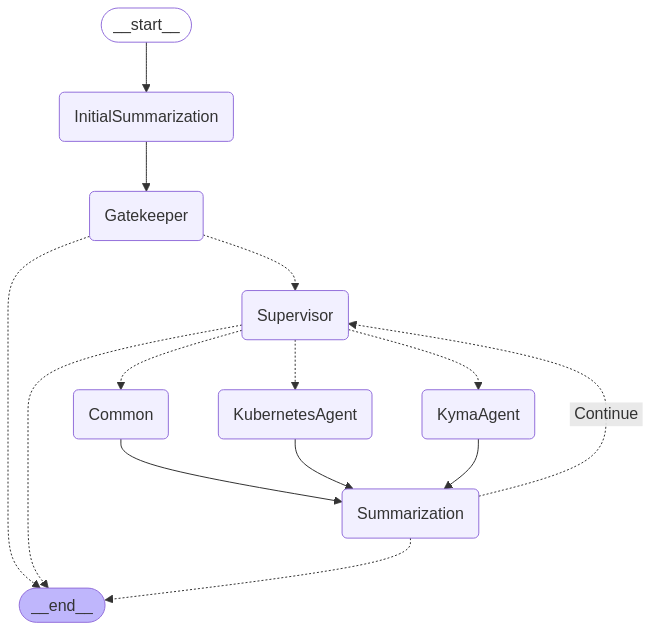
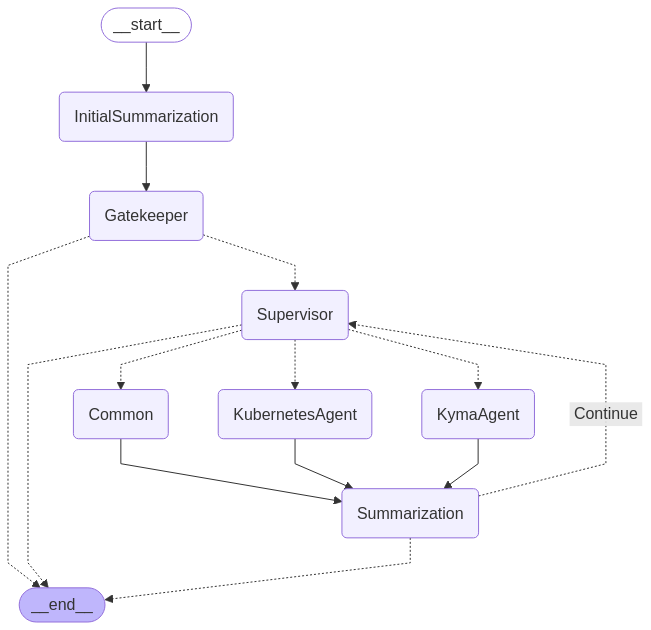
added pagination, updated summarization node

diff --git a/src/services/k8s.py b/src/services/k8s.py
@@ -10,6 +10,7 @@ import requests
 from kubernetes import client, dynamic
 from pydantic import BaseModel
 
+from agents.common.constants import K8S_API_PAGINATION_LIMIT, K8S_API_PAGINATION_MAX_PAGE
 from services.data_sanitizer import IDataSanitizer
 from utils import logging
 
@@ -254,25 +255,61 @@ class K8sClient:
         return headers
 
     def execute_get_api_request(self, uri: str) -> dict | list[dict]:
-        """Execute a GET request to the Kubernetes API."""
+        """Execute a GET request to the Kubernetes API with pagination support."""
         cert = None
         if self.k8s_auth_headers.get_auth_type() == AuthType.CLIENT_CERTIFICATE:
             cert = (self.client_cert_temp_filename, self.client_key_temp_filename)
-        response = requests.get(
-            url=f"{self.get_api_server()}/{uri.lstrip('/')}",
-            headers=self._get_auth_headers(),
-            verify=self.ca_temp_filename,
-            cert=cert,
-        )
 
-        if response.status_code != HTTPStatus.OK:
-            raise ValueError(
-                f"Failed to execute GET request to the Kubernetes API. Error: {response.text}"
+        # Initialize variables for pagination
+        all_items = []
+        continue_token = ""
+        base_url = f"{self.get_api_server()}/{uri.lstrip('/')}"
+        page_count = 0
+
+        # Handle pagination
+        while True:
+            page_count += 1
+
+            # Check if we've exceeded the maximum number of pages
+            if page_count > K8S_API_PAGINATION_MAX_PAGE:
+                raise ValueError(
+                    f"Kubernetes API rate limit exceeded. Please refine your query and provide more specific resource details."
+                )
+
+            # Add continue token to URL if it exists
+            query_params = f"?limit={K8S_API_PAGINATION_LIMIT}" + (f"&continue={continue_token}" if continue_token else "")
+            current_url = base_url + query_params
+
+            response = requests.get(
+                url=current_url,
+                headers=self._get_auth_headers(),
+                verify=self.ca_temp_filename,
+                cert=cert,
             )
 
-        if self.data_sanitizer:
-            return self.data_sanitizer.sanitize(response.json())
-        return response.json()  # type: ignore
+            if response.status_code != HTTPStatus.OK:
+                raise ValueError(
+                    f"Failed to execute GET request to the Kubernetes API. Error: {response.text}"
+                )
+
+            result = response.json()
+
+            # Extract items if this is a list response
+            if "items" in result:
+                if self.data_sanitizer:
+                    all_items.extend(self.data_sanitizer.sanitize(result["items"]))
+                else:
+                    all_items.extend(result["items"])
+
+                # Check for continue token
+                continue_token = result.get("metadata", {}).get("continue", "")
+                if not continue_token:
+                    return all_items
+            else:
+                # If this wasn't a list response, just return the result directly
+                if self.data_sanitizer:
+                    return self.data_sanitizer.sanitize(result)
+                return result
 
     def list_resources(self, api_version: str, kind: str, namespace: str) -> list[dict]:
         """List resources of a specific kind in a namespace.

diff --git a/src/agents/common/agent.py b/src/agents/common/agent.py
@@ -46,12 +46,12 @@ def subtask_selector_edge(state: BaseAgentState) -> Literal["agent", "finalizer"
     return "agent"
 
 
-def agent_edge(state: BaseAgentState) -> Literal["tools", "finalizer"]:
+def agent_edge(state: BaseAgentState) -> Literal[ SUMMARIZATION, "finalizer"]:
     """Function that determines whether to call tools or finalizer."""
     last_message = state.agent_messages[-1]
     if isinstance(last_message, AIMessage) and not last_message.tool_calls:
         return "finalizer"
-    return "tools"
+    return SUMMARIZATION # from SUMMARIZATION --> tools
 
 
 class IAgent(Protocol):
@@ -258,17 +258,18 @@ class BaseAgent:
         # Define the edge: subtask_selector --> (agent | end)
         workflow.add_conditional_edges("subtask_selector", subtask_selector_edge)
 
-        # Define the edge: agent --> (tool | finalizer)
+        # Define the edge: agent --> (summarization | finalizer)
         workflow.add_conditional_edges("agent", agent_edge)
 
-        # Define the edge: tool --> summarization
-        workflow.add_edge("tools", SUMMARIZATION)
+        # Define the edge: tool --> tool
+        workflow.add_edge("tools", "agent")
+
         # Define the edge: summarization --> agent | error_handler
         workflow.add_conditional_edges(
             SUMMARIZATION,
             should_continue,
             {
-                CONTINUE: "agent",
+                CONTINUE: "tools",
                 END: END,
             },
         )

diff --git a/src/agents/k8s/prompts.py b/src/agents/k8s/prompts.py
@@ -5,8 +5,7 @@ You are a Kubernetes expert assisting users with Kubernetes-related questions in
 Utilize the conversation messages and provided tools to answer questions and make progress.
 
 Available tools 
-- `k8s_overview_query_tool` - Use this to get the overview of the cluster or namespace.
-- `k8s_query_tool` - Use this to query the state of specific Kubernetes objects by providing the resource URI.
+- `k8s_query_tool` - Use this to query the state of Kubernetes objects by providing the resource URI.
 - `fetch_pod_logs_tool` - If needed, use this to fetch the logs of the Pods to gather more information.
 
 If you cannot fully answer a question, another assistant with different tools will continue from where you left off.

diff --git a/src/agents/common/constants.py b/src/agents/common/constants.py
@@ -62,3 +62,7 @@ UPDATE_YAML = "Update"
 SUCCESS_CODE = 200
 
 ERROR_RATE_LIMIT_CODE = 429
+
+K8S_API_PAGINATION_LIMIT = 100
+
+K8S_API_PAGINATION_MAX_PAGE = 5
